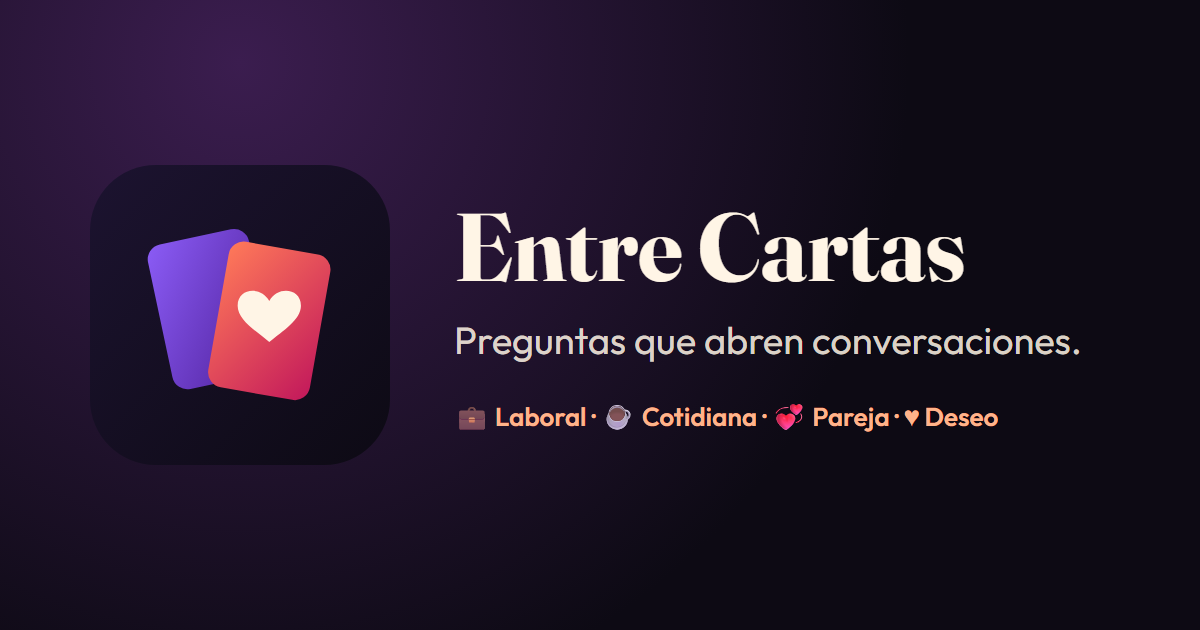
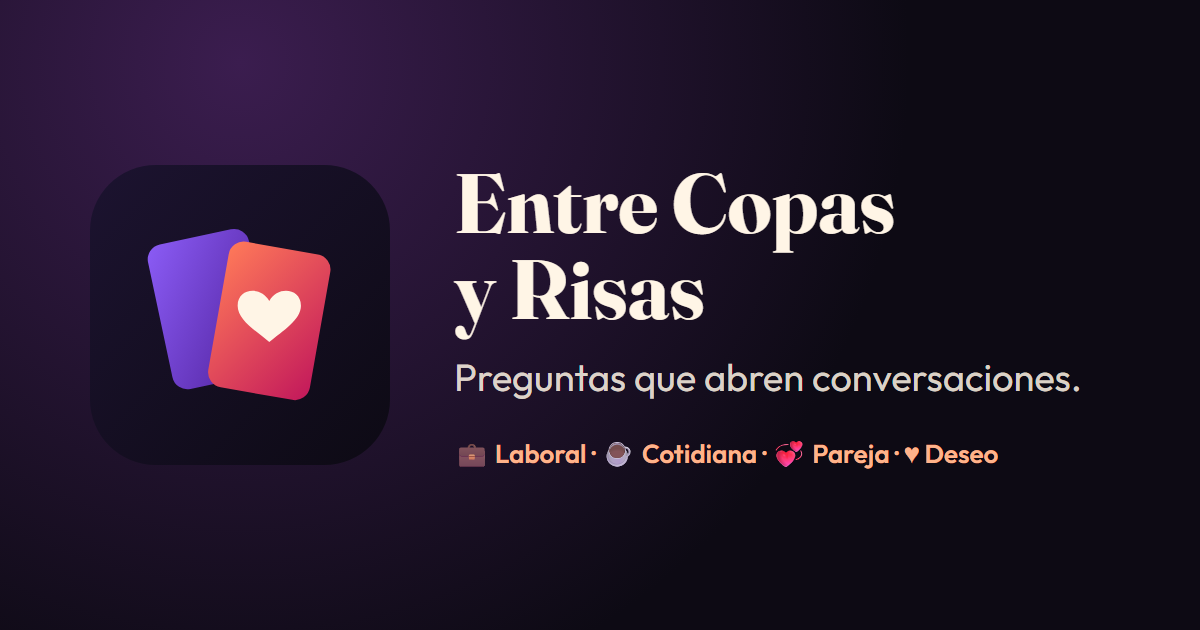
Cambia el nombre del juego a "Entre Copas y Risas"

Changed region(s): [[0.37, 0.2714, 0.8942, 0.754]]

diff --git a/index.html b/index.html
@@ -3,14 +3,14 @@
 <head>
     <meta charset="UTF-8">
     <meta name="viewport" content="width=device-width, initial-scale=1.0, viewport-fit=cover">
-    <!-- Marca: para cambiar el nombre, editar "Entre Cartas" en este bloque, en la portada y en manifest.webmanifest -->
-    <title>Entre Cartas · Preguntas que abren conversaciones</title>
+    <!-- Marca: para cambiar el nombre, editar "Entre Copas y Risas" en este bloque, en la portada y en manifest.webmanifest -->
+    <title>Entre Copas y Risas · Preguntas que abren conversaciones</title>
     <meta name="description" content="Juego de cartas con preguntas y retos para equipos de trabajo, amigos, familia y parejas. Cuatro mazos, de lo liviano a lo profundo.">
     <meta name="theme-color" content="#0d0a14">
 
     <!-- Vista previa al compartir el link (WhatsApp, redes) -->
     <meta property="og:type" content="website">
-    <meta property="og:title" content="Entre Cartas">
+    <meta property="og:title" content="Entre Copas y Risas">
     <meta property="og:description" content="Preguntas que abren conversaciones. Cuatro mazos para jugar en equipo, en familia o en pareja.">
     <meta property="og:image" content="https://folivarese.github.io/miweb/img/og-image.png">
     <meta property="og:url" content="https://folivarese.github.io/miweb/">
@@ -24,7 +24,7 @@
     <meta name="apple-mobile-web-app-capable" content="yes">
     <meta name="mobile-web-app-capable" content="yes">
     <meta name="apple-mobile-web-app-status-bar-style" content="black-translucent">
-    <meta name="apple-mobile-web-app-title" content="Entre Cartas">
+    <meta name="apple-mobile-web-app-title" content="Copas y Risas">
 
     <!-- Tipografías -->
     <link rel="preconnect" href="https://fonts.googleapis.com">
@@ -38,7 +38,7 @@
     <!-- Pantalla de carga: se desvanece sola (solo CSS) -->
     <div class="splash" aria-hidden="true">
         <img src="img/icono.svg" alt="" width="84" height="84">
-        <span>Entre Cartas</span>
+        <span>Entre Copas y Risas</span>
     </div>
 
     <div id="app">
@@ -46,7 +46,7 @@
         <div id="menu-principal" class="pantalla activa">
             <header class="portada">
                 <img class="portada-logo" src="img/icono.svg" alt="" width="64" height="64">
-                <h1 class="portada-titulo">Entre Cartas</h1>
+                <h1 class="portada-titulo">Entre Copas <span class="sin-corte">y Risas</span></h1>
                 <p class="portada-lema">Preguntas que abren conversaciones.</p>
             </header>
 
@@ -77,7 +77,7 @@
             </div>
 
             <footer class="pie">
-                © 2026 Entre Cartas · Todos los derechos reservados
+                © 2026 Entre Copas y Risas · Todos los derechos reservados
             </footer>
         </div>
 

diff --git a/style.css b/style.css
@@ -531,7 +531,7 @@ body.alerta-reto #pantalla-mazo .carta-frente {
 
 
 /* =====================================================================
-   CAPA VISUAL "ENTRE CARTAS"
+   CAPA VISUAL "ENTRE COPAS Y RISAS"
    Solo presentación: tipografía, colores, portada y botones.
    No cambia la lógica del juego. Para volver al diseño anterior,
    borrar desde acá hasta el final del archivo.
@@ -1029,4 +1029,9 @@ button:disabled {
     .splash {
         animation-delay: 0.2s;
     }
+}
+
+/* El nombre corta como "Entre Copas / y Risas" y no "Entre Copas y / Risas" */
+.sin-corte {
+    white-space: nowrap;
 }
